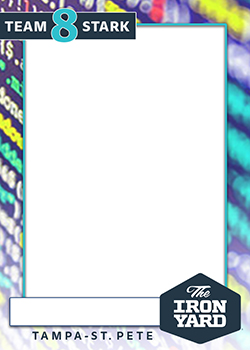
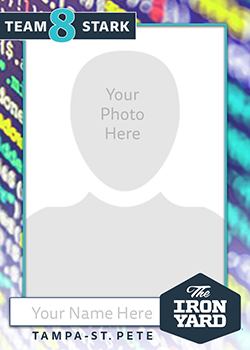
Added and updated all images for card designs and modified css

diff --git a/app/assets/stylesheets/style.scss b/app/assets/stylesheets/style.scss
@@ -255,6 +255,12 @@ input[type="number"] {
   text-align: center;
 }
 
+.future p {
+  font-size: 8px;
+  text-align: center;
+  color: #ddd;
+}
+
 .submit {
   text-align: center;
   background-color: #ed2024;
@@ -432,6 +438,11 @@ div p {
   font-size: 12px;
   color: #3935a5;
   margin-top: .5em;
+}
+
+.card-label h3 {
+  color: #ddd;
+  font-size: 16px;
 }
 
 .thanks h1 {
